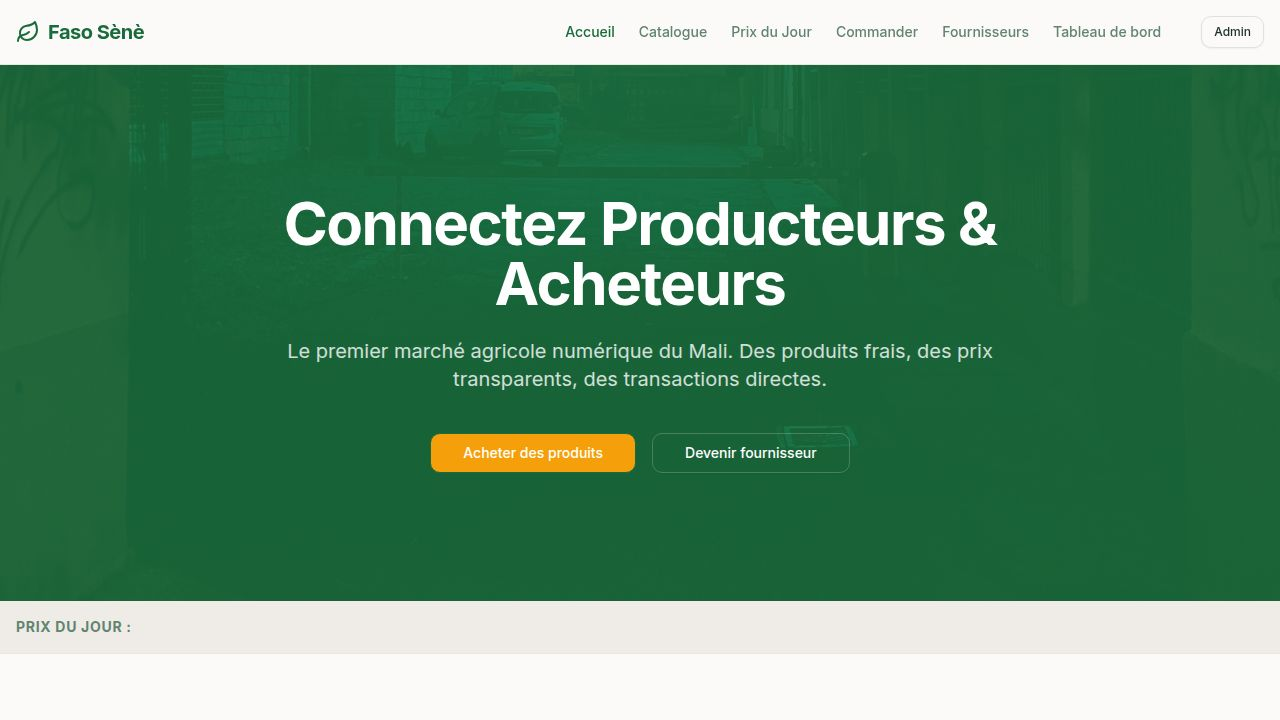
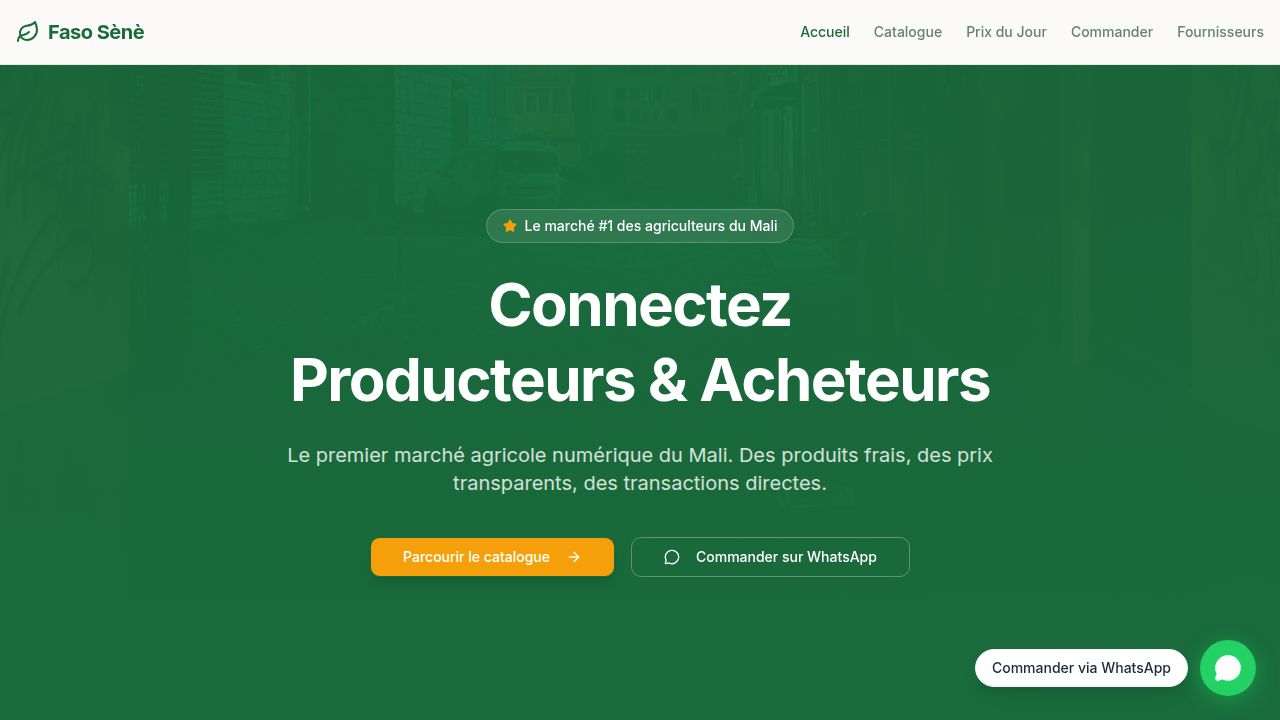
Add time slot selection to orders and expand order details in admin view
Introduce a `deliveryTime` field to the order schema, update API endpoints and forms to support it, and enhance the admin dashboard with an expandable `OrderCard` component displaying detailed order information.

Replit-Commit-Author: Agent
Replit-Commit-Session-Id: 19f68197-cfc1-4f21-8b48-4f0f0e76c82b
Replit-Commit-Checkpoint-Type: full_checkpoint
Replit-Commit-Event-Id: 123c41d7-5780-47d0-b8e7-6bea5430fa4b
Replit-Commit-Screenshot-Url: https://storage.googleapis.com/screenshot-production-us-central1/32be8301-c51a-47b1-b5d5-fbfd12da31b6/19f68197-cfc1-4f21-8b48-4f0f0e76c82b/WOVeS2V
Replit-Helium-Checkpoint-Created: true

Changed region(s): [[0.0, 0.7333, 1.0, 1.0], [0.2188, 0.275, 0.7812, 0.7028], [0.4375, 0.0306, 1.0, 0.0611]]

diff --git a/artifacts/faso-sene/src/pages/admin.tsx b/artifacts/faso-sene/src/pages/admin.tsx
@@ -2,9 +2,9 @@ import { useState, useEffect } from "react";
 import { motion, AnimatePresence } from "framer-motion";
 import {
   Users, Package, ShoppingBag, Truck, DollarSign, Clock,
-  TrendingUp, TrendingDown, Minus, ChevronDown, Save, CheckCircle2, LogOut,
+  TrendingUp, TrendingDown, Minus, ChevronDown, ChevronRight, Save, CheckCircle2, LogOut,
   Settings, Eye, EyeOff, ShieldCheck, Plus, Pencil, Trash2, X,
-  AlertTriangle, ImageIcon, ToggleLeft, ToggleRight, Banknote, Smartphone, Wallet,
+  AlertTriangle, ImageIcon, ToggleLeft, ToggleRight, Banknote, Smartphone, Wallet, Mail, MapPin, CalendarDays,
 } from "lucide-react";
 import { Card, CardContent, CardHeader, CardTitle, CardDescription } from "@/components/ui/card";
 import { Badge } from "@/components/ui/badge";
@@ -755,6 +755,195 @@ function PasswordSettings() {
   );
 }
 
+// ─── Order Card (expandable) ─────────────────────────────────────────────────
+
+const TIME_SLOT_LABELS: Record<string, string> = {
+  matin: "Matin (8h–12h)",
+  "apres-midi": "Après-midi (12h–17h)",
+  soir: "Soir (17h–20h)",
+  flexible: "Flexible",
+};
+
+function PaymentBadge({ method }: { method?: string | null }) {
+  if (!method || method === "livraison") {
+    return (
+      <Badge variant="outline" className="text-xs gap-1">
+        <Banknote className="h-3 w-3 text-emerald-600" /> Contre remboursement
+      </Badge>
+    );
+  }
+  if (method === "orange_money") {
+    return (
+      <Badge variant="outline" className="text-xs gap-1">
+        <Smartphone className="h-3 w-3 text-orange-500" /> Orange Money
+      </Badge>
+    );
+  }
+  if (method === "wave") {
+    return (
+      <Badge variant="outline" className="text-xs gap-1">
+        <Wallet className="h-3 w-3 text-blue-500" /> Wave
+      </Badge>
+    );
+  }
+  return <Badge variant="outline" className="text-xs">{method}</Badge>;
+}
+
+type OrderItem = { productId?: number; productName?: string; quantity?: number; unit?: string; unitPrice?: number; subtotal?: number };
+type OrderType = {
+  id: number;
+  customerName: string;
+  customerPhone: string;
+  customerEmail?: string | null;
+  whatsappOrder?: boolean | null;
+  paymentMethod?: string | null;
+  deliveryAddress: string;
+  deliveryDate?: string | null;
+  deliveryTime?: string | null;
+  notes?: string | null;
+  items: OrderItem[];
+  totalAmount: number;
+  status: string;
+  createdAt: string;
+};
+
+function OrderCard({ order, onStatusChange }: { order: OrderType; onStatusChange: (id: number, status: string) => void }) {
+  const [expanded, setExpanded] = useState(false);
+
+  return (
+    <Card data-testid={`row-order-${order.id}`} className="overflow-hidden">
+      <CardContent className="pt-4 pb-4">
+        {/* ─ Header row ─ */}
+        <div className="flex flex-col sm:flex-row sm:items-center justify-between gap-3">
+          <button
+            type="button"
+            onClick={() => setExpanded((v) => !v)}
+            className="flex-1 flex items-start gap-2 text-left group"
+          >
+            <ChevronRight className={`h-4 w-4 mt-0.5 text-muted-foreground transition-transform ${expanded ? "rotate-90" : ""}`} />
+            <div className="flex-1 min-w-0">
+              <div className="flex items-center gap-2 flex-wrap">
+                <span className="font-semibold">#{order.id}</span>
+                <span className="text-sm">{order.customerName}</span>
+                <span className="text-sm text-muted-foreground">{order.customerPhone}</span>
+                {order.whatsappOrder && <Badge className="bg-[#25D366] text-white text-xs">WhatsApp</Badge>}
+                <PaymentBadge method={order.paymentMethod} />
+              </div>
+              <p className="text-xs text-muted-foreground mt-0.5 truncate">{order.deliveryAddress}</p>
+              <p className="text-xs text-muted-foreground">{new Date(order.createdAt).toLocaleString("fr-FR")}</p>
+            </div>
+          </button>
+          <div className="flex items-center gap-3 flex-shrink-0 pl-6 sm:pl-0">
+            <span className="font-bold text-primary">{order.totalAmount.toLocaleString("fr-FR")} F</span>
+            <Select value={order.status} onValueChange={(v) => onStatusChange(order.id, v)}>
+              <SelectTrigger data-testid={`select-order-status-${order.id}`} className="w-40 h-8 text-xs">
+                <span className={`px-1.5 py-0.5 rounded text-xs font-medium ${STATUS_COLORS[order.status] ?? "bg-gray-100"}`}>
+                  {ORDER_STATUSES.find((s) => s.value === order.status)?.label ?? order.status}
+                </span>
+                <ChevronDown className="h-3 w-3 ml-auto" />
+              </SelectTrigger>
+              <SelectContent>
+                {ORDER_STATUSES.map((s) => <SelectItem key={s.value} value={s.value}>{s.label}</SelectItem>)}
+              </SelectContent>
+            </Select>
+          </div>
+        </div>
+
+        {/* ─ Expanded detail ─ */}
+        <AnimatePresence initial={false}>
+          {expanded && (
+            <motion.div
+              initial={{ opacity: 0, height: 0 }}
+              animate={{ opacity: 1, height: "auto" }}
+              exit={{ opacity: 0, height: 0 }}
+              transition={{ duration: 0.2 }}
+              className="overflow-hidden"
+            >
+              <div className="mt-4 pt-4 border-t space-y-4">
+                {/* Items table */}
+                <div>
+                  <p className="text-xs font-semibold text-muted-foreground uppercase tracking-wide mb-2">Produits commandés</p>
+                  <div className="rounded-lg border overflow-hidden">
+                    <table className="w-full text-sm">
+                      <thead className="bg-muted/50">
+                        <tr>
+                          <th className="text-left px-3 py-2 font-medium text-muted-foreground text-xs">Produit</th>
+                          <th className="text-right px-3 py-2 font-medium text-muted-foreground text-xs">Qté</th>
+                          <th className="text-right px-3 py-2 font-medium text-muted-foreground text-xs">P.U.</th>
+                          <th className="text-right px-3 py-2 font-medium text-muted-foreground text-xs">Sous-total</th>
+                        </tr>
+                      </thead>
+                      <tbody>
+                        {order.items.map((item, i) => (
+                          <tr key={i} className="border-t">
+                            <td className="px-3 py-2">{item.productName ?? `Produit #${item.productId}`}</td>
+                            <td className="px-3 py-2 text-right text-muted-foreground">{item.quantity} {item.unit ?? ""}</td>
+                            <td className="px-3 py-2 text-right text-muted-foreground">{(item.unitPrice ?? 0).toLocaleString("fr-FR")} F</td>
+                            <td className="px-3 py-2 text-right font-semibold">{(item.subtotal ?? 0).toLocaleString("fr-FR")} F</td>
+                          </tr>
+                        ))}
+                      </tbody>
+                      <tfoot className="bg-muted/30 border-t">
+                        <tr>
+                          <td colSpan={3} className="px-3 py-2 font-bold text-right">Total</td>
+                          <td className="px-3 py-2 font-bold text-right text-primary">{order.totalAmount.toLocaleString("fr-FR")} F</td>
+                        </tr>
+                      </tfoot>
+                    </table>
+                  </div>
+                </div>
+
+                {/* Details grid */}
+                <div className="grid sm:grid-cols-2 gap-4 text-sm">
+                  <div className="space-y-2">
+                    <p className="text-xs font-semibold text-muted-foreground uppercase tracking-wide">Client</p>
+                    <div className="space-y-1">
+                      <p className="font-medium">{order.customerName}</p>
+                      <p className="text-muted-foreground">{order.customerPhone}</p>
+                      {order.customerEmail && (
+                        <p className="flex items-center gap-1 text-muted-foreground text-xs">
+                          <Mail className="h-3 w-3" /> {order.customerEmail}
+                        </p>
+                      )}
+                    </div>
+                  </div>
+                  <div className="space-y-2">
+                    <p className="text-xs font-semibold text-muted-foreground uppercase tracking-wide">Livraison</p>
+                    <div className="space-y-1">
+                      <p className="flex items-start gap-1 text-muted-foreground text-xs">
+                        <MapPin className="h-3 w-3 mt-0.5 shrink-0" /> {order.deliveryAddress}
+                      </p>
+                      {order.deliveryDate && (
+                        <p className="flex items-center gap-1 text-muted-foreground text-xs">
+                          <CalendarDays className="h-3 w-3" />
+                          {order.deliveryDate}
+                          {order.deliveryTime && ` — ${TIME_SLOT_LABELS[order.deliveryTime] ?? order.deliveryTime}`}
+                        </p>
+                      )}
+                      {!order.deliveryDate && order.deliveryTime && (
+                        <p className="flex items-center gap-1 text-muted-foreground text-xs">
+                          <Clock className="h-3 w-3" /> {TIME_SLOT_LABELS[order.deliveryTime] ?? order.deliveryTime}
+                        </p>
+                      )}
+                    </div>
+                  </div>
+                </div>
+
+                {order.notes && (
+                  <div>
+                    <p className="text-xs font-semibold text-muted-foreground uppercase tracking-wide mb-1">Notes</p>
+                    <p className="text-sm bg-muted/40 rounded-lg px-3 py-2">{order.notes}</p>
+                  </div>
+                )}
+              </div>
+            </motion.div>
+          )}
+        </AnimatePresence>
+      </CardContent>
+    </Card>
+  );
+}
+
 // ─── Main Admin Page ─────────────────────────────────────────────────────────
 
 export default function Admin() {
@@ -900,49 +1089,11 @@ export default function Admin() {
             ) : (
               <div className="space-y-3">
                 {orders.map((order) => (
-                  <Card key={order.id} data-testid={`row-order-${order.id}`}>
-                    <CardContent className="pt-4">
-                      <div className="flex flex-col sm:flex-row sm:items-center justify-between gap-3">
-                        <div className="flex-1">
-                          <div className="flex items-center gap-2 flex-wrap">
-                            <span className="font-semibold">#{order.id}</span>
-                            <span className="text-sm text-muted-foreground">{order.customerName}</span>
-                            <span className="text-sm text-muted-foreground">{order.customerPhone}</span>
-                            {order.whatsappOrder && <Badge className="bg-[#25D366] text-white text-xs">WhatsApp</Badge>}
-                          {order.paymentMethod && order.paymentMethod !== "livraison" && (
-                            <Badge variant="outline" className="text-xs gap-1">
-                              {order.paymentMethod === "orange_money" && <Smartphone className="h-3 w-3 text-orange-500" />}
-                              {order.paymentMethod === "wave" && <Wallet className="h-3 w-3 text-blue-500" />}
-                              {order.paymentMethod === "orange_money" ? "Orange Money" : order.paymentMethod === "wave" ? "Wave" : order.paymentMethod}
-                            </Badge>
-                          )}
-                          {(!order.paymentMethod || order.paymentMethod === "livraison") && (
-                            <Badge variant="outline" className="text-xs gap-1">
-                              <Banknote className="h-3 w-3 text-emerald-600" />
-                              Contre remboursement
-                            </Badge>
-                          )}
-                          </div>
-                          <p className="text-sm text-muted-foreground mt-1 line-clamp-1">{order.deliveryAddress}</p>
-                          <p className="text-xs text-muted-foreground">{new Date(order.createdAt).toLocaleString("fr-FR")}</p>
-                        </div>
-                        <div className="flex items-center gap-3 flex-shrink-0">
-                          <span className="font-bold text-primary">{order.totalAmount.toLocaleString("fr-FR")} F</span>
-                          <Select value={order.status} onValueChange={(v) => handleOrderStatusChange(order.id, v)}>
-                            <SelectTrigger data-testid={`select-order-status-${order.id}`} className="w-40 h-8 text-xs">
-                              <span className={`px-1.5 py-0.5 rounded text-xs font-medium ${STATUS_COLORS[order.status] ?? "bg-gray-100"}`}>
-                                {ORDER_STATUSES.find((s) => s.value === order.status)?.label ?? order.status}
-                              </span>
-                              <ChevronDown className="h-3 w-3 ml-auto" />
-                            </SelectTrigger>
-                            <SelectContent>
-                              {ORDER_STATUSES.map((s) => <SelectItem key={s.value} value={s.value}>{s.label}</SelectItem>)}
-                            </SelectContent>
-                          </Select>
-                        </div>
-                      </div>
-                    </CardContent>
-                  </Card>
+                  <OrderCard
+                    key={order.id}
+                    order={order}
+                    onStatusChange={handleOrderStatusChange}
+                  />
                 ))}
               </div>
             )}

diff --git a/artifacts/faso-sene/src/pages/commander.tsx b/artifacts/faso-sene/src/pages/commander.tsx
@@ -49,12 +49,20 @@ const PAYMENT_METHODS = [
   },
 ];
 
+const TIME_SLOTS = [
+  { value: "matin", label: "Matin", sub: "8h – 12h" },
+  { value: "apres-midi", label: "Après-midi", sub: "12h – 17h" },
+  { value: "soir", label: "Soir", sub: "17h – 20h" },
+  { value: "flexible", label: "Flexible", sub: "À définir" },
+];
+
 const formSchema = z.object({
   customerName: z.string().min(2, "Nom requis"),
   customerPhone: z.string().min(8, "Numéro de téléphone requis"),
   customerEmail: z.string().email("Email invalide").optional().or(z.literal("")),
   deliveryAddress: z.string().min(5, "Adresse de livraison requise"),
   deliveryDate: z.string().optional(),
+  deliveryTime: z.string().optional(),
   notes: z.string().optional(),
   whatsappOrder: z.boolean().default(false),
 });
@@ -91,6 +99,7 @@ export default function Commander() {
       customerEmail: "",
       deliveryAddress: "",
       deliveryDate: "",
+      deliveryTime: "",
       notes: "",
       whatsappOrder: false,
     },
@@ -141,8 +150,9 @@ export default function Commander() {
     if (values.whatsappOrder) {
       const paymentLabel = PAYMENT_METHODS.find((m) => m.id === paymentMethod)?.label ?? paymentMethod;
       const itemLines = cart.map((i) => `- ${i.productName}: ${i.quantity} ${i.unit} x ${i.unitPrice.toLocaleString("fr-FR")} FCFA = ${i.subtotal.toLocaleString("fr-FR")} FCFA`).join("\n");
+      const timeLabel = TIME_SLOTS.find((t) => t.value === values.deliveryTime)?.label;
       const msg = encodeURIComponent(
-        `Bonjour Faso Sènè,\n\nJe souhaite passer une commande:\n\n${itemLines}\n\nTotal: ${totalAmount.toLocaleString("fr-FR")} FCFA\nPaiement: ${paymentLabel}\n\nLivraison: ${values.deliveryAddress}\nNom: ${values.customerName}\nTél: ${values.customerPhone}${values.notes ? `\nNotes: ${values.notes}` : ""}`
+        `Bonjour Faso Sènè,\n\nJe souhaite passer une commande:\n\n${itemLines}\n\nTotal: ${totalAmount.toLocaleString("fr-FR")} FCFA\nPaiement: ${paymentLabel}\n\nLivraison: ${values.deliveryAddress}${values.deliveryDate ? `\nDate: ${values.deliveryDate}` : ""}${timeLabel ? ` (${timeLabel})` : ""}\nNom: ${values.customerName}\nTél: ${values.customerPhone}${values.notes ? `\nNotes: ${values.notes}` : ""}`
       );
       window.open(`https://wa.me/${WHATSAPP_NUMBER}?text=${msg}`, "_blank");
     }
@@ -159,6 +169,7 @@ export default function Commander() {
         })),
         deliveryAddress: values.deliveryAddress,
         deliveryDate: values.deliveryDate || undefined,
+        deliveryTime: values.deliveryTime || undefined,
         notes: values.notes || undefined,
         whatsappOrder: values.whatsappOrder,
         paymentMethod,
@@ -393,15 +404,39 @@ export default function Commander() {
                         <FormMessage />
                       </FormItem>
                     )} />
-                    <FormField control={form.control} name="deliveryDate" render={({ field }) => (
-                      <FormItem>
-                        <FormLabel>Date souhaitée (optionnel)</FormLabel>
-                        <FormControl>
-                          <Input data-testid="input-delivery-date" type="date" className="h-11" {...field} />
-                        </FormControl>
-                        <FormMessage />
-                      </FormItem>
-                    )} />
+                    <div className="grid sm:grid-cols-2 gap-4">
+                      <FormField control={form.control} name="deliveryDate" render={({ field }) => (
+                        <FormItem>
+                          <FormLabel>Date souhaitée (optionnel)</FormLabel>
+                          <FormControl>
+                            <Input data-testid="input-delivery-date" type="date" className="h-11" {...field} />
+                          </FormControl>
+                          <FormMessage />
+                        </FormItem>
+                      )} />
+                      <FormField control={form.control} name="deliveryTime" render={({ field }) => (
+                        <FormItem>
+                          <FormLabel>Créneau horaire (optionnel)</FormLabel>
+                          <div className="grid grid-cols-2 gap-1.5">
+                            {TIME_SLOTS.map((slot) => (
+                              <button
+                                key={slot.value}
+                                type="button"
+                                onClick={() => field.onChange(field.value === slot.value ? "" : slot.value)}
+                                className={`flex flex-col items-center py-2 px-1 rounded-lg border text-center transition-all ${
+                                  field.value === slot.value
+                                    ? "border-primary bg-primary/5 text-primary"
+                                    : "border-border text-muted-foreground hover:border-primary/30"
+                                }`}
+                              >
+                                <span className="text-xs font-semibold">{slot.label}</span>
+                                <span className="text-[10px] opacity-70">{slot.sub}</span>
+                              </button>
+                            ))}
+                          </div>
+                        </FormItem>
+                      )} />
+                    </div>
                     <FormField control={form.control} name="notes" render={({ field }) => (
                       <FormItem>
                         <FormLabel>Notes (optionnel)</FormLabel>

diff --git a/artifacts/api-server/src/routes/orders.ts b/artifacts/api-server/src/routes/orders.ts
@@ -72,6 +72,7 @@ router.post("/orders", async (req, res): Promise<void> => {
     notes: parsed.data.notes ?? null,
     whatsappOrder: parsed.data.whatsappOrder ?? false,
     paymentMethod: (parsed.data as Record<string, unknown>).paymentMethod as string ?? "livraison",
+    deliveryTime: (parsed.data as Record<string, unknown>).deliveryTime as string ?? null,
   }).returning();
 
   res.status(201).json(serializeOrder(order));

diff --git a/lib/db/src/schema/orders.ts b/lib/db/src/schema/orders.ts
@@ -19,6 +19,7 @@ export const ordersTable = pgTable("orders", {
   status: text("status").notNull().default("en_attente"),
   deliveryAddress: text("delivery_address").notNull(),
   deliveryDate: text("delivery_date"),
+  deliveryTime: text("delivery_time"),
   notes: text("notes"),
   whatsappOrder: boolean("whatsapp_order").default(false),
   paymentMethod: text("payment_method").default("livraison"),